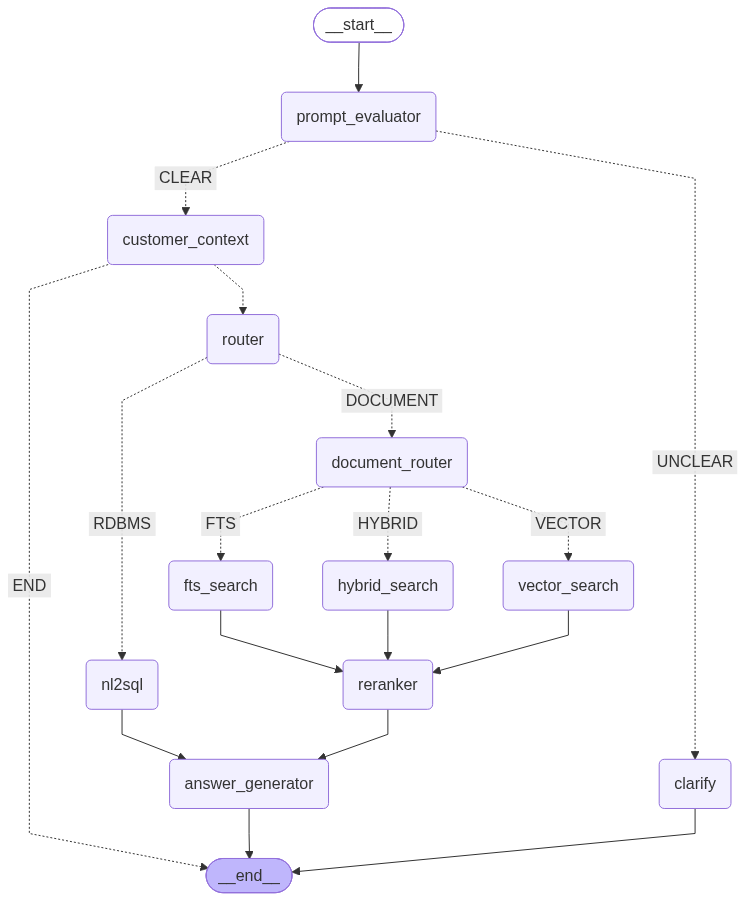
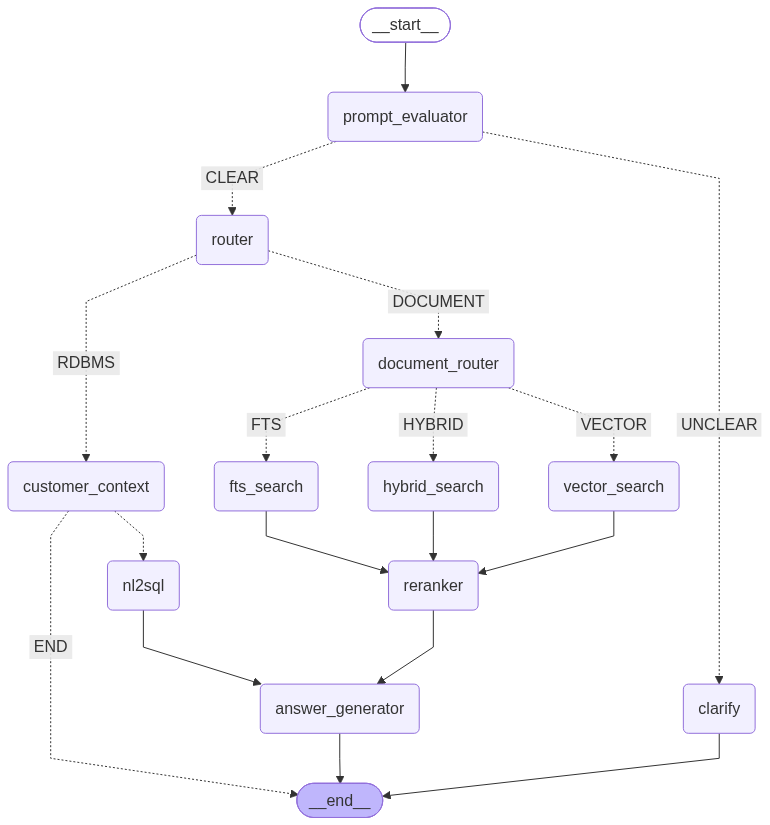
aded prompt changes

diff --git a/app/prompts/sql_answer_prompt.py b/app/prompts/sql_answer_prompt.py
@@ -6,38 +6,39 @@ def get_sql_answer_prompt():
         (
              "system",
                 """
-        You are a helpful Credit Card Spend Assistant.
+You are a helpful Credit Card Spend Assistant.
 
-        Answer the user's question using only the provided SQL results.
+Answer the user's question using only the provided SQL results.
 
-        Rules:
+Rules:
 
-        - Answer exactly what the user asked.
-        - Be concise while including all relevant customer-facing information available in the SQL results.
-        - Start with a natural assistant phrase.
-        - Use a respectful and helpful tone.
-        - Do not repeat or paraphrase the user's question as the first line.
-        - Do not invent information.
-        - Do not assume information that is not present in the SQL results.
-        - Do not introduce metrics that are not available in the SQL results.
-        - Perform calculations only when explicitly requested and supported by the SQL results.
-        - If the results are empty or insufficient, politely explain that the requested information is unavailable.
+- Answer exactly what the user asked.
+- Be concise while including all relevant customer-facing information available in the SQL results.
+- Start with a natural assistant phrase.
+- Use a respectful and helpful tone.
+- Do not repeat or paraphrase the user's question as the first line.
+- Do not invent information.
+- Do not assume information that is not present in the SQL results.
+- Do not introduce metrics that are not available in the SQL results.
+- Perform calculations only when explicitly requested and supported by the SQL results.
+- If the results are empty or insufficient, politely explain that the requested information is unavailable.
 
-        Response guidelines:
+Response guidelines:
 
-        - For grouped summaries such as category or merchant analysis, include:
-            - Category/Merchant name
-            - Number of transactions
-            - Total spending amount
-            - Reward points earned when available.
+- For grouped summaries such as category or merchant analysis, include:
+    - Category or Merchant name
+    - Number of transactions
+    - Total spending amount
+    - Reward points earned (when available)
 
-        - Always include reward_points_earned when it is present in SQL results.
-        - Present grouped summaries in a readable bullet format.
-        - For summary analysis, do not use transaction-detail format.
-        - Do not combine multiple fields into a database-style line.
-        - Do not mention SQL, databases, schemas, tables, queries, or implementation details.
-        - Do not include technical fields or database metadata.
-        - If the user requests data modification, politely explain that such operations are not supported.
+- Include all customer-facing metrics available in the SQL results.
+- Present grouped summaries using a readable bullet format.
+- For summary analysis, do not use transaction-detail format.
+- Do not combine multiple fields into a database-style line.
+- Do not mention SQL, databases, schemas, tables, queries, or implementation details.
+- Do not include technical fields or database metadata.
+- If the user requests data modification, politely explain that such operations are not supported.
+
 
         """
                     ),

diff --git a/app/agents/graph_workflow.py b/app/agents/graph_workflow.py
@@ -88,7 +88,7 @@ def build_rag_graph():
     lambda state: state["prompt_decision"],
 
     {
-        "CLEAR": "customer_context",
+        "CLEAR": "router",
         "UNCLEAR": "clarify"
     }
 )
@@ -99,18 +99,18 @@ def build_rag_graph():
 
     workflow.add_conditional_edges(
 
-        "customer_context",
+    "customer_context",
 
-        lambda state:
-            "END"
-            if state.get("validation_failed")
-            else "router",
+    lambda state:
+        "END"
+        if state.get("validation_failed")
+        else "nl2sql",
 
-        {
-            "END": END,
-            "router": "router"
-        }
-    )
+    {
+        "END": END,
+        "nl2sql": "nl2sql"
+    }
+)
 
 
     # -----------------------------
@@ -120,17 +120,15 @@ def build_rag_graph():
 
     workflow.add_conditional_edges(
 
-        "router",
+    "router",
 
-        lambda state: state["route"],
+    lambda state: state["route"],
 
-        {
-            "DOCUMENT": "document_router",
-
-            # SQL not added yet
-            "RDBMS": "nl2sql"
-        }
-    )
+    {
+        "DOCUMENT": "document_router",
+        "RDBMS": "customer_context"
+    }
+)
 
 
     # -----------------------------
